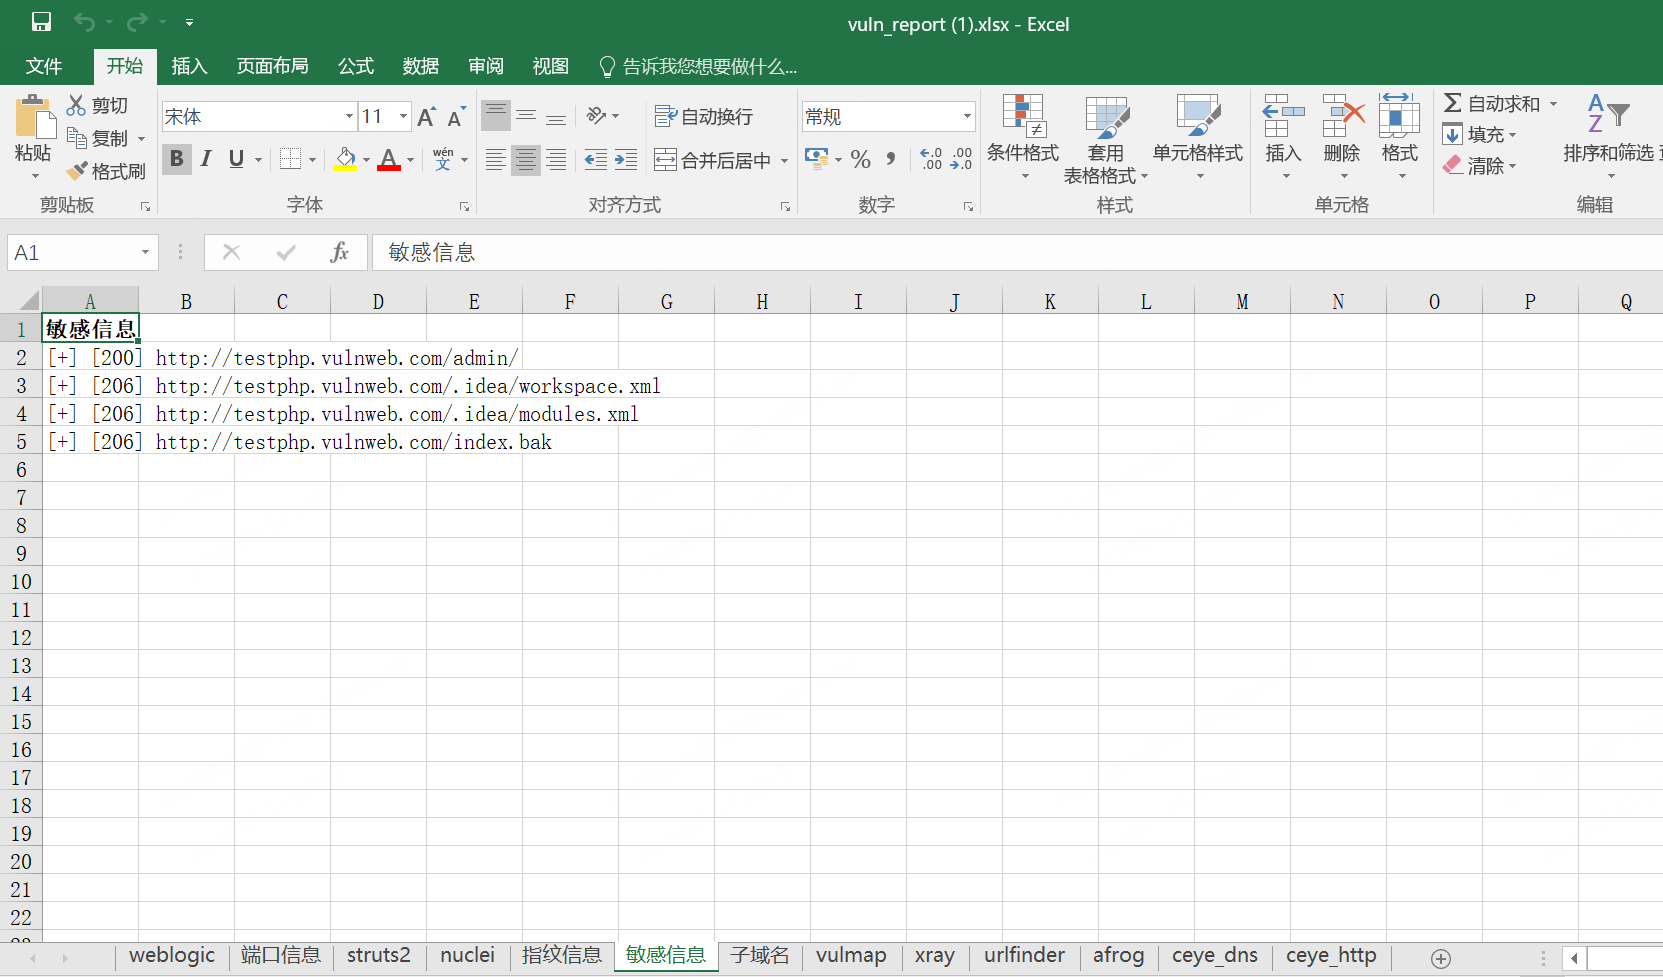
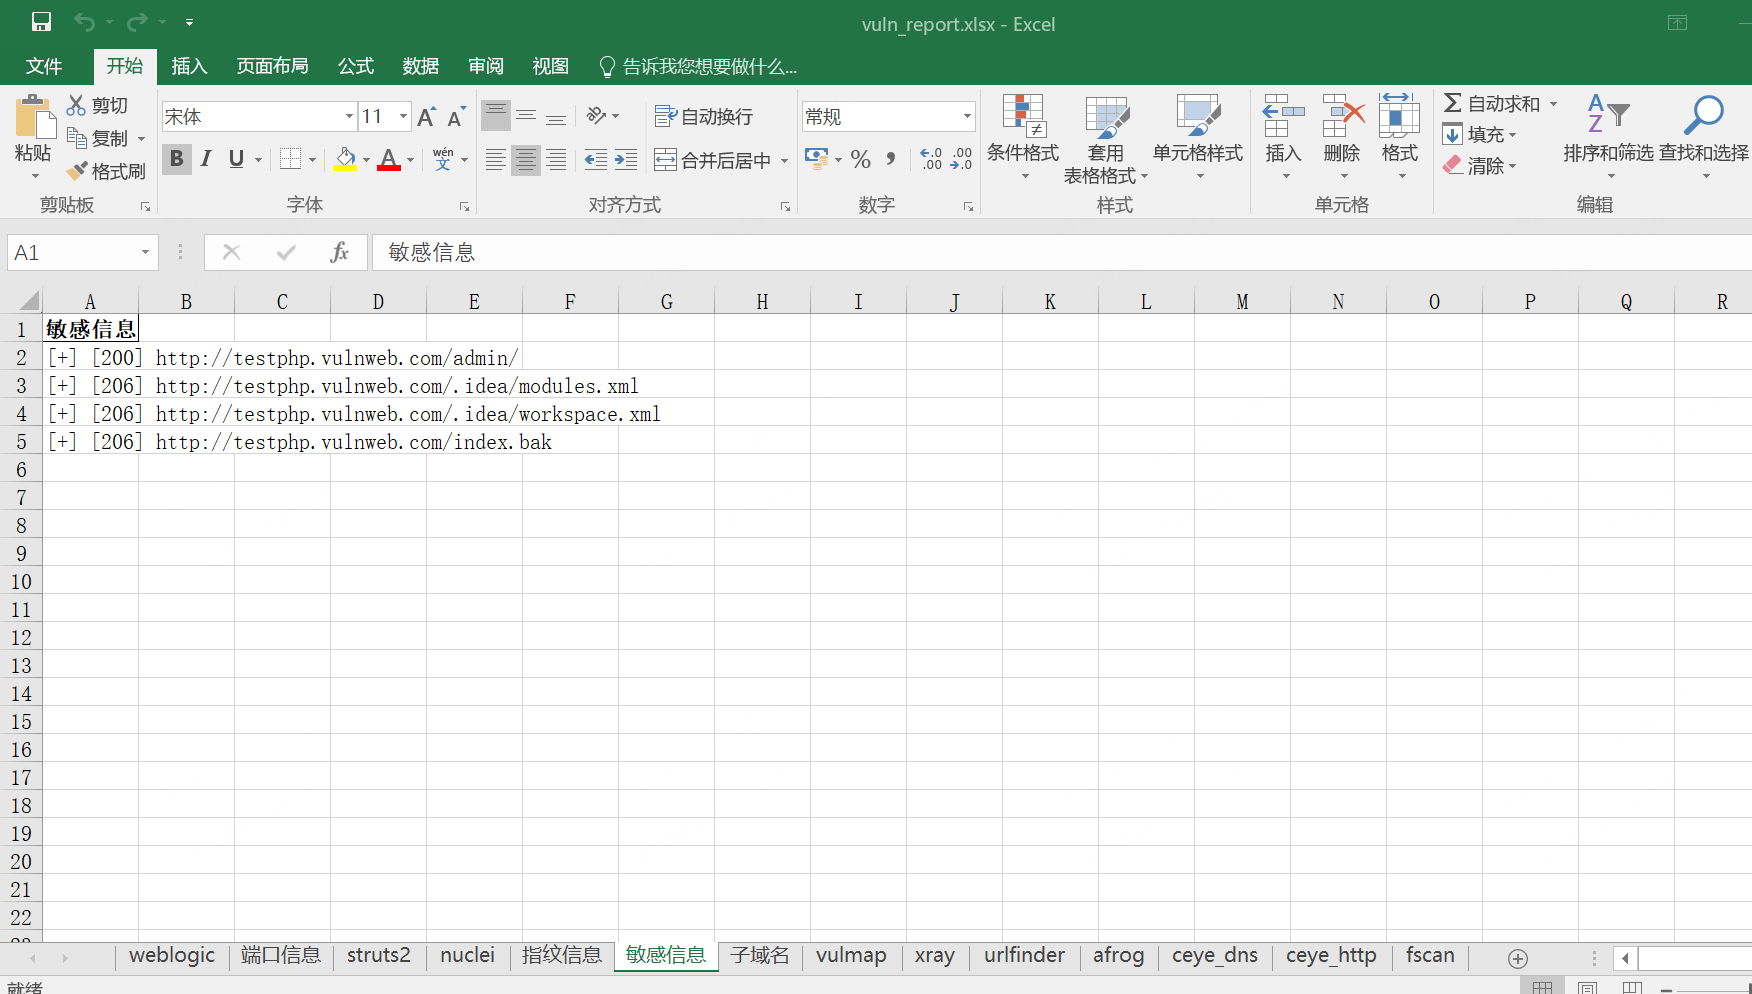
add fscan script

diff --git a/static/js/common.js b/static/js/common.js
@@ -61,7 +61,7 @@ function statusnmapfunc() {
     })
     $.getJSON("/nmapqueuestatus/",
         function (info) {
-            alert(info.nmapstatus + '\n' + info.nucleistatus + '\n' + info.xraystatus + '\n' + info.radstatus + '\n' + info.dirscanstatus+ '\n' + info.weblogicstatus+ '\n' +info.struts2status+ '\n' +info.bbscanstatus+ '\n' +info.vulmapscanstatus+ '\n' +info.afrogscanstatus)
+            alert(info.nmapstatus + '\n' + info.nucleistatus + '\n' + info.xraystatus + '\n' + info.radstatus + '\n' + info.dirscanstatus+ '\n' + info.weblogicstatus+ '\n' +info.struts2status+ '\n' +info.bbscanstatus+ '\n' +info.vulmapscanstatus+ '\n' +info.afrogscanstatus+ '\n' +info.fscanstatus)
         })
 }
 
@@ -368,6 +368,12 @@ function startbutton() {
     button44.disabled = false;
     var button45 = document.getElementById("button45");
     button45.disabled = false;
+    var button46 = document.getElementById("button46");
+    button46.disabled = false;
+    var button47 = document.getElementById("button47");
+    button47.disabled = false;
+    var button48 = document.getElementById("button48");
+    button48.disabled = false;
 
 }
 
@@ -457,6 +463,12 @@ function stopbutton() {
     button44.disabled = true;
     var button45 = document.getElementById("button45");
     button45.disabled = true;
+    var button46 = document.getElementById("button46");
+    button46.disabled = true;
+    var button47 = document.getElementById("button47");
+    button47.disabled = true;
+    var button48 = document.getElementById("button48");
+    button48.disabled = true;
 
 }
 
@@ -567,35 +579,36 @@ function filtercdndatafunc() {
 }
 
 //一键处理
-function oneclickprocessing() {
-    var button19 = document.getElementById("button19");
-    var button20 = document.getElementById("button20");
-    var button24 = document.getElementById("button24");
-    var button17 = document.getElementById("button17");
+// function oneclickprocessing() {
+//     var button19 = document.getElementById("button19");
+//     var button20 = document.getElementById("button20");
+//     var button24 = document.getElementById("button24");
+//     var button17 = document.getElementById("button17");
 
-    button19.disabled = false;
-    button20.disabled = false;
-    button24.disabled = false;
-    button17.disabled = false;
-    // 定义一个函数来模拟点击并安排下一次点击（如果有的话）  
-    function simulateClickAndSleep(buttons, index, interval) {
-        // 如果索引在按钮数组范围内，则模拟点击并安排下一次点击  
-        if (index < buttons.length) {
-            // 模拟点击当前按钮  
-            buttons[index].click();
-            console.log('Clicked button ' + (index + 1));
+//     button19.disabled = false;
+//     button20.disabled = false;
+//     button24.disabled = false;
+//     button17.disabled = false;
+//     // 定义一个函数来模拟点击并安排下一次点击（如果有的话）  
+//     function simulateClickAndSleep(buttons, index, interval) {
+//         // 如果索引在按钮数组范围内，则模拟点击并安排下一次点击  
+//         if (index < buttons.length) {
+//             // 模拟点击当前按钮  
+//             buttons[index].click();
+//             console.log('Clicked button ' + (index + 1));
 
-            // 休眠interval毫秒后，安排下一次点击  
-            setTimeout(function () {
-                simulateClickAndSleep(buttons, index + 1, interval);
-            }, interval);
-        }
-    }
+//             // 休眠interval毫秒后，安排下一次点击  
+//             setTimeout(function () {
+//                 simulateClickAndSleep(buttons, index + 1, interval);
+//             }, interval);
+//         }
+//     }
 
-    // 开始模拟点击，从第一个按钮开始，每次点击后休眠10000毫秒（10秒）  
-    var buttonsToClick = [button20, button24, button19, button17];
-    simulateClickAndSleep(buttonsToClick, 0, 10000); // 第一个参数是按钮数组，第二个参数是开始索引，第三个参数是休眠时间（毫秒）
-}
+//     // 开始模拟点击，从第一个按钮开始，每次点击后休眠10000毫秒（10秒）  
+//     var buttonsToClick = [button20, button24, button19, button17];
+//     simulateClickAndSleep(buttonsToClick, 0, 10000); // 第一个参数是按钮数组，第二个参数是开始索引，第三个参数是休眠时间（毫秒）
+// }
+
 
 //资产回退
 function assetsbackspacefunc() {
@@ -920,6 +933,50 @@ function killafrogprocessfunc() {
         },
         complete: function () {
             alert('已结束afrog进程')
+        }
+    })
+}
+
+
+//fscan扫描结果预览
+function fscanreprtfunc() {
+    window.open("/fscanreportyulan/");
+}
+
+//批量fscan漏洞扫描
+function batchfscanvulnfunc() {
+    $.ajax({
+        url: '/startfcsaninterface/',
+        method: 'GET',
+
+        success: function (res) {
+            console.log(res)
+            alert('fscan扫描已加入队列中稍后查看结果')
+        },
+        error: function () {
+            alert('内部出错')
+        },
+        complete: function () {
+            alert('fscan扫描已加入队列中稍后查看结果')
+        }
+    })
+}
+
+
+//ajax异步结束fscan进程
+function killfscanprocessfunc() {
+    $.ajax({
+        url: '/killfscangprocess/',
+        method: 'GET',
+        success: function (res) {
+            console.log(res)
+            console.log('已结束fscan进程')
+        },
+        error: function () {
+            alert('出现内部错误')
+        },
+        complete: function () {
+            alert('已结束fscan进程')
         }
     })
 }

diff --git a/templates/index.html b/templates/index.html
@@ -222,7 +222,7 @@
 			<td>
 				<input type="submit"  value="vulmap_poc：">&nbsp;&nbsp;&nbsp;&nbsp;
 				<input type="button" id="button38" value="预览报告" onclick="vulmapscanreportfunc()" disabled>
-				<input type="button" id="button39" value="启动程序" onclick="startvulmapscanfunc()" disabled><br><br>
+				<input type="button" id="button39" value="启动程序" onclick="startvulmapscanfunc()" disabled>
 				<select name="vulnname">
 					<option value="all">测试所有漏洞 poc 不指定将默认开启指纹识别</option>
 					<option value="activemq">检查站点是否存在activemq漏洞</option>
@@ -254,7 +254,13 @@
 					<option value="eyou">检查站点是否存在eyou漏洞</option>
 					<option value="qianxin">检查站点是否存在qianxin漏洞</option>
 					<option value="ruijie">检查站点是否存在ruijie漏洞</option>
-				  </select>
+				  </select><br><br>
+				
+				  <input type="submit"  value="fscan_poc：">&nbsp;&nbsp;&nbsp;&nbsp;
+				  <input type="button"  id="button46" value="预览报告" onclick="fscanreprtfunc()" disabled>
+				  <input type="button"  id="button47" value="启动程序" onclick="batchfscanvulnfunc()" disabled>
+				  <input type="button"  id="button48" value="结束进程" onclick="killfscanprocessfunc()" disabled>
+				
 			</td>
 			<td>
 				<input type="submit"  value="afrog_poc：">&nbsp;&nbsp;&nbsp;&nbsp;
@@ -277,7 +283,8 @@
 				<input type="button" id="button25" value="资产回退" onclick="assetsbackspacefunc()" disabled>
 				<input type="button" id="button20" class="hover-color" name="commit" value="存活检测" onclick="filterstatuscodefunc()" disabled>
 				<input type="button" id="button24" value="CDN检测" onclick="filtercdndatafunc()" disabled>
-				<input type="button" id="button2" value="一键处理" onclick="oneclickprocessing()" disabled> <br>
+				<!-- <input type="button" id="button2" value="一键处理" onclick="oneclickprocessing()" disabled>  -->
+				<input type="button" id="button2"  value="文本框赋值" onclick="targeturlcopytextareafunc()" disabled><br>
 				<input type="button" id="button17" value="资产查看" onclick="textinfoshowfunc()" disabled>
 	<select id="opbyid3">
 		<option>文本内容展示</option>
@@ -293,7 +300,6 @@
 	</select>
 			</td>
 			<td>
-				<input type="button" value="文本赋值" onclick="targeturlcopytextareafunc()">
 				<textarea rows="9" cols="110" id="myTextarea">基础数据处理操作说明：
 
 1. 操作步骤：输入资产->文本添加->资产过滤(存活检测->CDN检测->数据过滤)->文本查看->纯净资产->漏洞扫描集合扫描；

diff --git a/static/css/common.css b/static/css/common.css
@@ -99,7 +99,7 @@
 		}
 
 		select {  
-            width: 417px; /* 设置宽度为200像素 */  
+            width: 310px; /* 设置宽度为200像素 */  
             height: 40px; /* 设置高度为40像素 */  
             padding: 5px; /* 设置内边距为5像素，这可以增加选项之间的空间 */  
             font-size: 16px; /* 设置字体大小为16像素 */  

diff --git a/scan_main_web.py b/scan_main_web.py
@@ -312,7 +312,7 @@ def startnuclei():
    
 
 
-#nmap扫描队列和nuclei、xray运行状态
+#扫描器运行状态
 @app.route("/nmapqueuestatus/")
 def nmapqueuestatus():
     user = session.get('username')
@@ -327,6 +327,7 @@ def nmapqueuestatus():
         bbscanstatus = os.popen('bash ./finger.sh bbscan_status').read()
         vulmapscanstatus = os.popen('bash ./finger.sh vulmapscan_status').read()
         afrogscanstatus = os.popen('bash ./finger.sh afrogscan_status').read()
+        fscanstatus = os.popen('bash ./finger.sh fscan_status').read()
         message_json = {
             "nmapstatus":nmapstatus,
             "nucleistatus":nucleistatus,
@@ -337,7 +338,8 @@ def nmapqueuestatus():
             "struts2status":struts2status,
             "bbscanstatus":bbscanstatus,
             "vulmapscanstatus":vulmapscanstatus,
-            "afrogscanstatus":afrogscanstatus
+            "afrogscanstatus":afrogscanstatus,
+            "fscanstatus":fscanstatus
         }
         return jsonify(message_json)
     else:
@@ -872,6 +874,47 @@ def killafrogprocess():
         return render_template('login.html')
 
 
+#fscan报告预览
+@app.route("/fscanreportyulan/")
+def fscanreportyulan():
+    user = session.get('username')
+    if str(user) == main_username:
+        lines = []
+        with open('./result/fscan_vuln.txt', 'r') as f:
+            for line in f:
+                lines.append(line.strip())
+        return '<br>'.join(lines)
+    else:
+        return render_template('login.html')
+
+
+#启动fscan程序
+@app.route("/startfcsaninterface/")
+def startfcsaninterface():
+    user = session.get('username')
+    if str(user) == main_username:
+        # 删除历史fscan扫描数据
+        os.popen('rm -rf /TIP/info_scan/fscan_tool/result.txt')
+
+        try:
+            basic.batch_fscan_interface()
+        except Exception as e:
+            print("捕获到异常:", e)
+        return render_template('index.html')
+    else:
+        return render_template('login.html')
+    
+
+#结束fscan进程
+@app.route("/killfscangprocess/")
+def killfscangprocess():
+    user = session.get('username')
+    if str(user) == main_username:
+        os.popen('bash ./finger.sh killfscan')
+        return render_template('index.html')
+    else:
+        return render_template('login.html')
+    
 
 if __name__ == '__main__':  
     app.run(host="127.0.0.1",port=80)

diff --git a/report_total.py b/report_total.py
@@ -89,6 +89,13 @@ def report_xlsx():
     # ceye_dns
     ceye_http = os.popen('bash ./finger.sh ceye_http'+' '+ceye_key).read()
     ceye_http_list = [ceye_http]
+
+
+    # fscan
+    fscan_report_list = []
+    fscan_file = open("/TIP/info_scan/result/fscan_vuln.txt",encoding='utf-8')
+    for fscan_line in fscan_file.readlines():
+        fscan_report_list.append(fscan_line.strip())
     
     # 将列表转换为 pandas 的 DataFrame
     df_a = pd.DataFrame(weblogic_report_list, columns=['weblogic'])
@@ -104,6 +111,7 @@ def report_xlsx():
     df_k = pd.DataFrame(afrog_report_list, columns=['afrog'])
     df_l = pd.DataFrame(ceye_dns_list, columns=['ceye_dns'])
     df_m = pd.DataFrame(ceye_http_list, columns=['ceye_http'])
+    df_n = pd.DataFrame(fscan_report_list, columns=['fscan'])
 
     # 创建一个 ExcelWriter 对象，用于写入 Excel 文件  
     with pd.ExcelWriter('/TIP/info_scan/result/vuln_report.xlsx', engine='openpyxl') as writer:
@@ -121,3 +129,4 @@ def report_xlsx():
         df_k.to_excel(writer, sheet_name='afrog', index=False)
         df_l.to_excel(writer, sheet_name='ceye_dns', index=False)
         df_m.to_excel(writer, sheet_name='ceye_http', index=False)
+        df_n.to_excel(writer, sheet_name='fscan', index=False)

diff --git a/basic.py b/basic.py
@@ -438,3 +438,29 @@ def status_scan(ip1):
         status_code_list.append("None")
 
     return status_code_list
+
+
+# fscan批量扫描
+def batch_fscan_interface():
+    ip_list = url_convert_ip()
+    f = open(file='/TIP/info_scan/fscan_tool/ip.txt', mode='w')
+    for k in ip_list:
+        f.write(str(k)+"\n")
+    f.close()
+    try:
+        os.popen('bash /TIP/info_scan/finger.sh startfscanprocess')
+    except Exception as e:
+            print("捕获到异常:", e)
+
+
+# 列表存入到队列中用于fscan扫描
+# def ip_queue_fscan():
+#     # 创建一个空队列
+#     q = queue.Queue()
+#     ip_list = url_convert_ip()
+#     for item in ip_list:
+#         q.put(item)
+#     # 取出并打印队列中的所有元素（先进先出）  
+#     while not q.empty():  
+#         ip_queue = q.get()
+#         result = subprocess.run(["sh", "./finger.sh","startfscanprocess",ip_queue], stdout=subprocess.PIPE)

diff --git a/readme.md b/readme.md
@@ -69,4 +69,5 @@ struts2扫描：调用Struts2-Scan <br>
 敏感信息：调用BBScan <br>
 综合漏洞扫描：调用vulmap <br>
 综合漏洞扫描：调用afrog <br>
+综合漏洞扫描：调用fscan <br>
 DNS平台：调用ceye.io <br>
